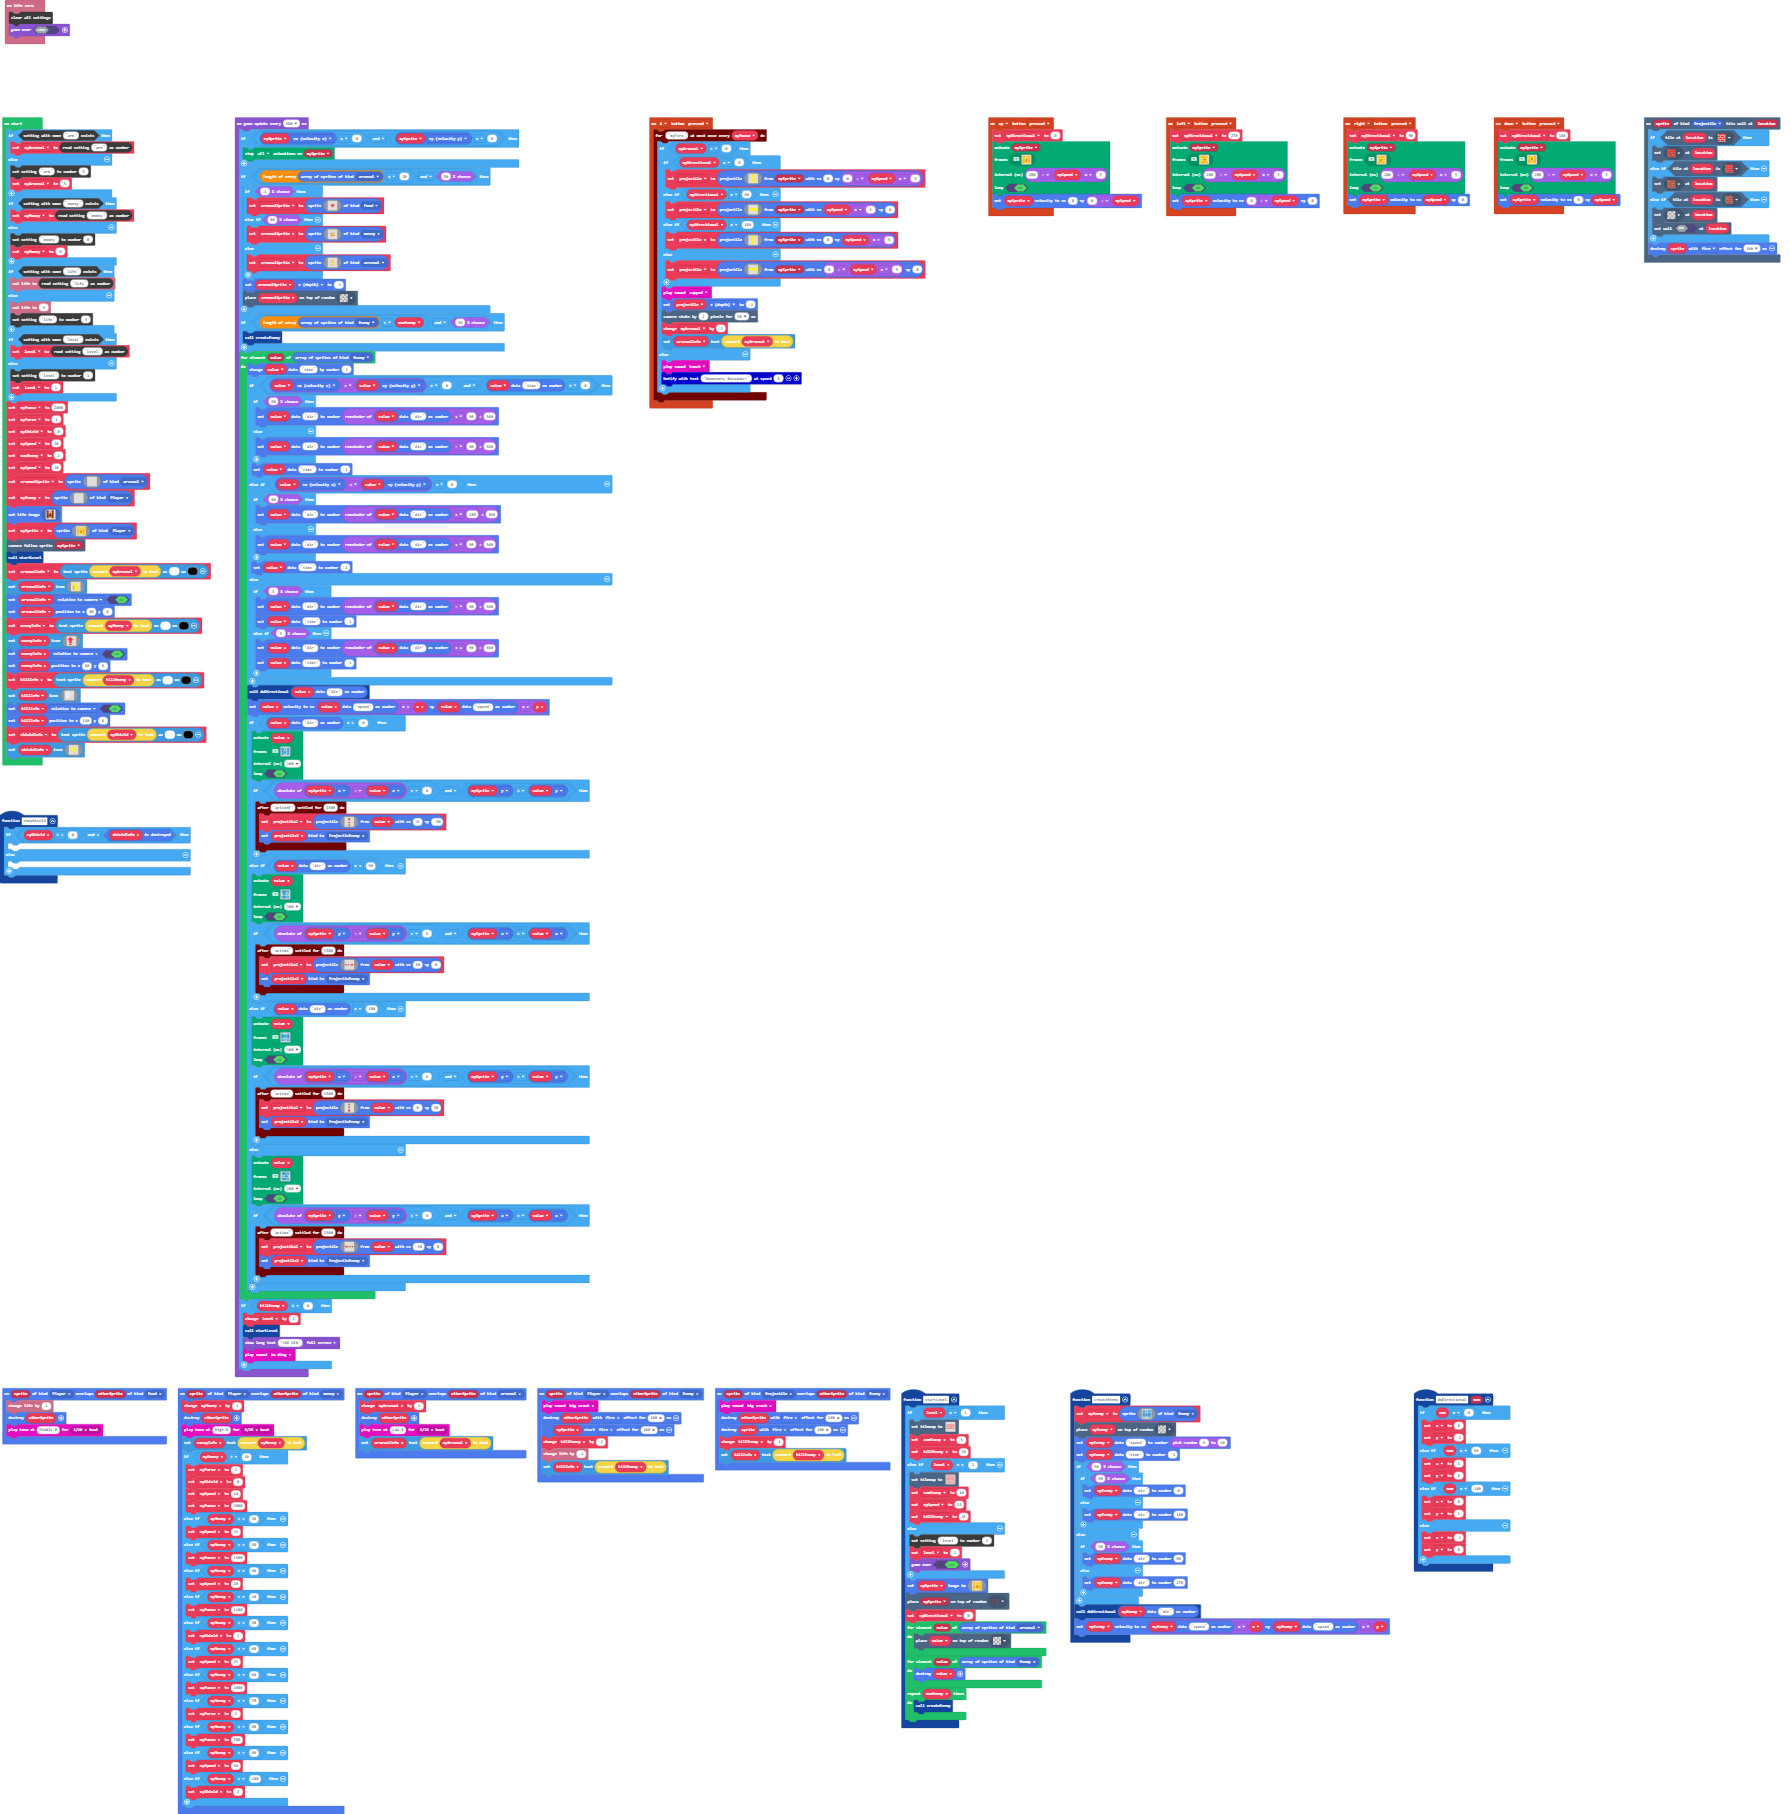
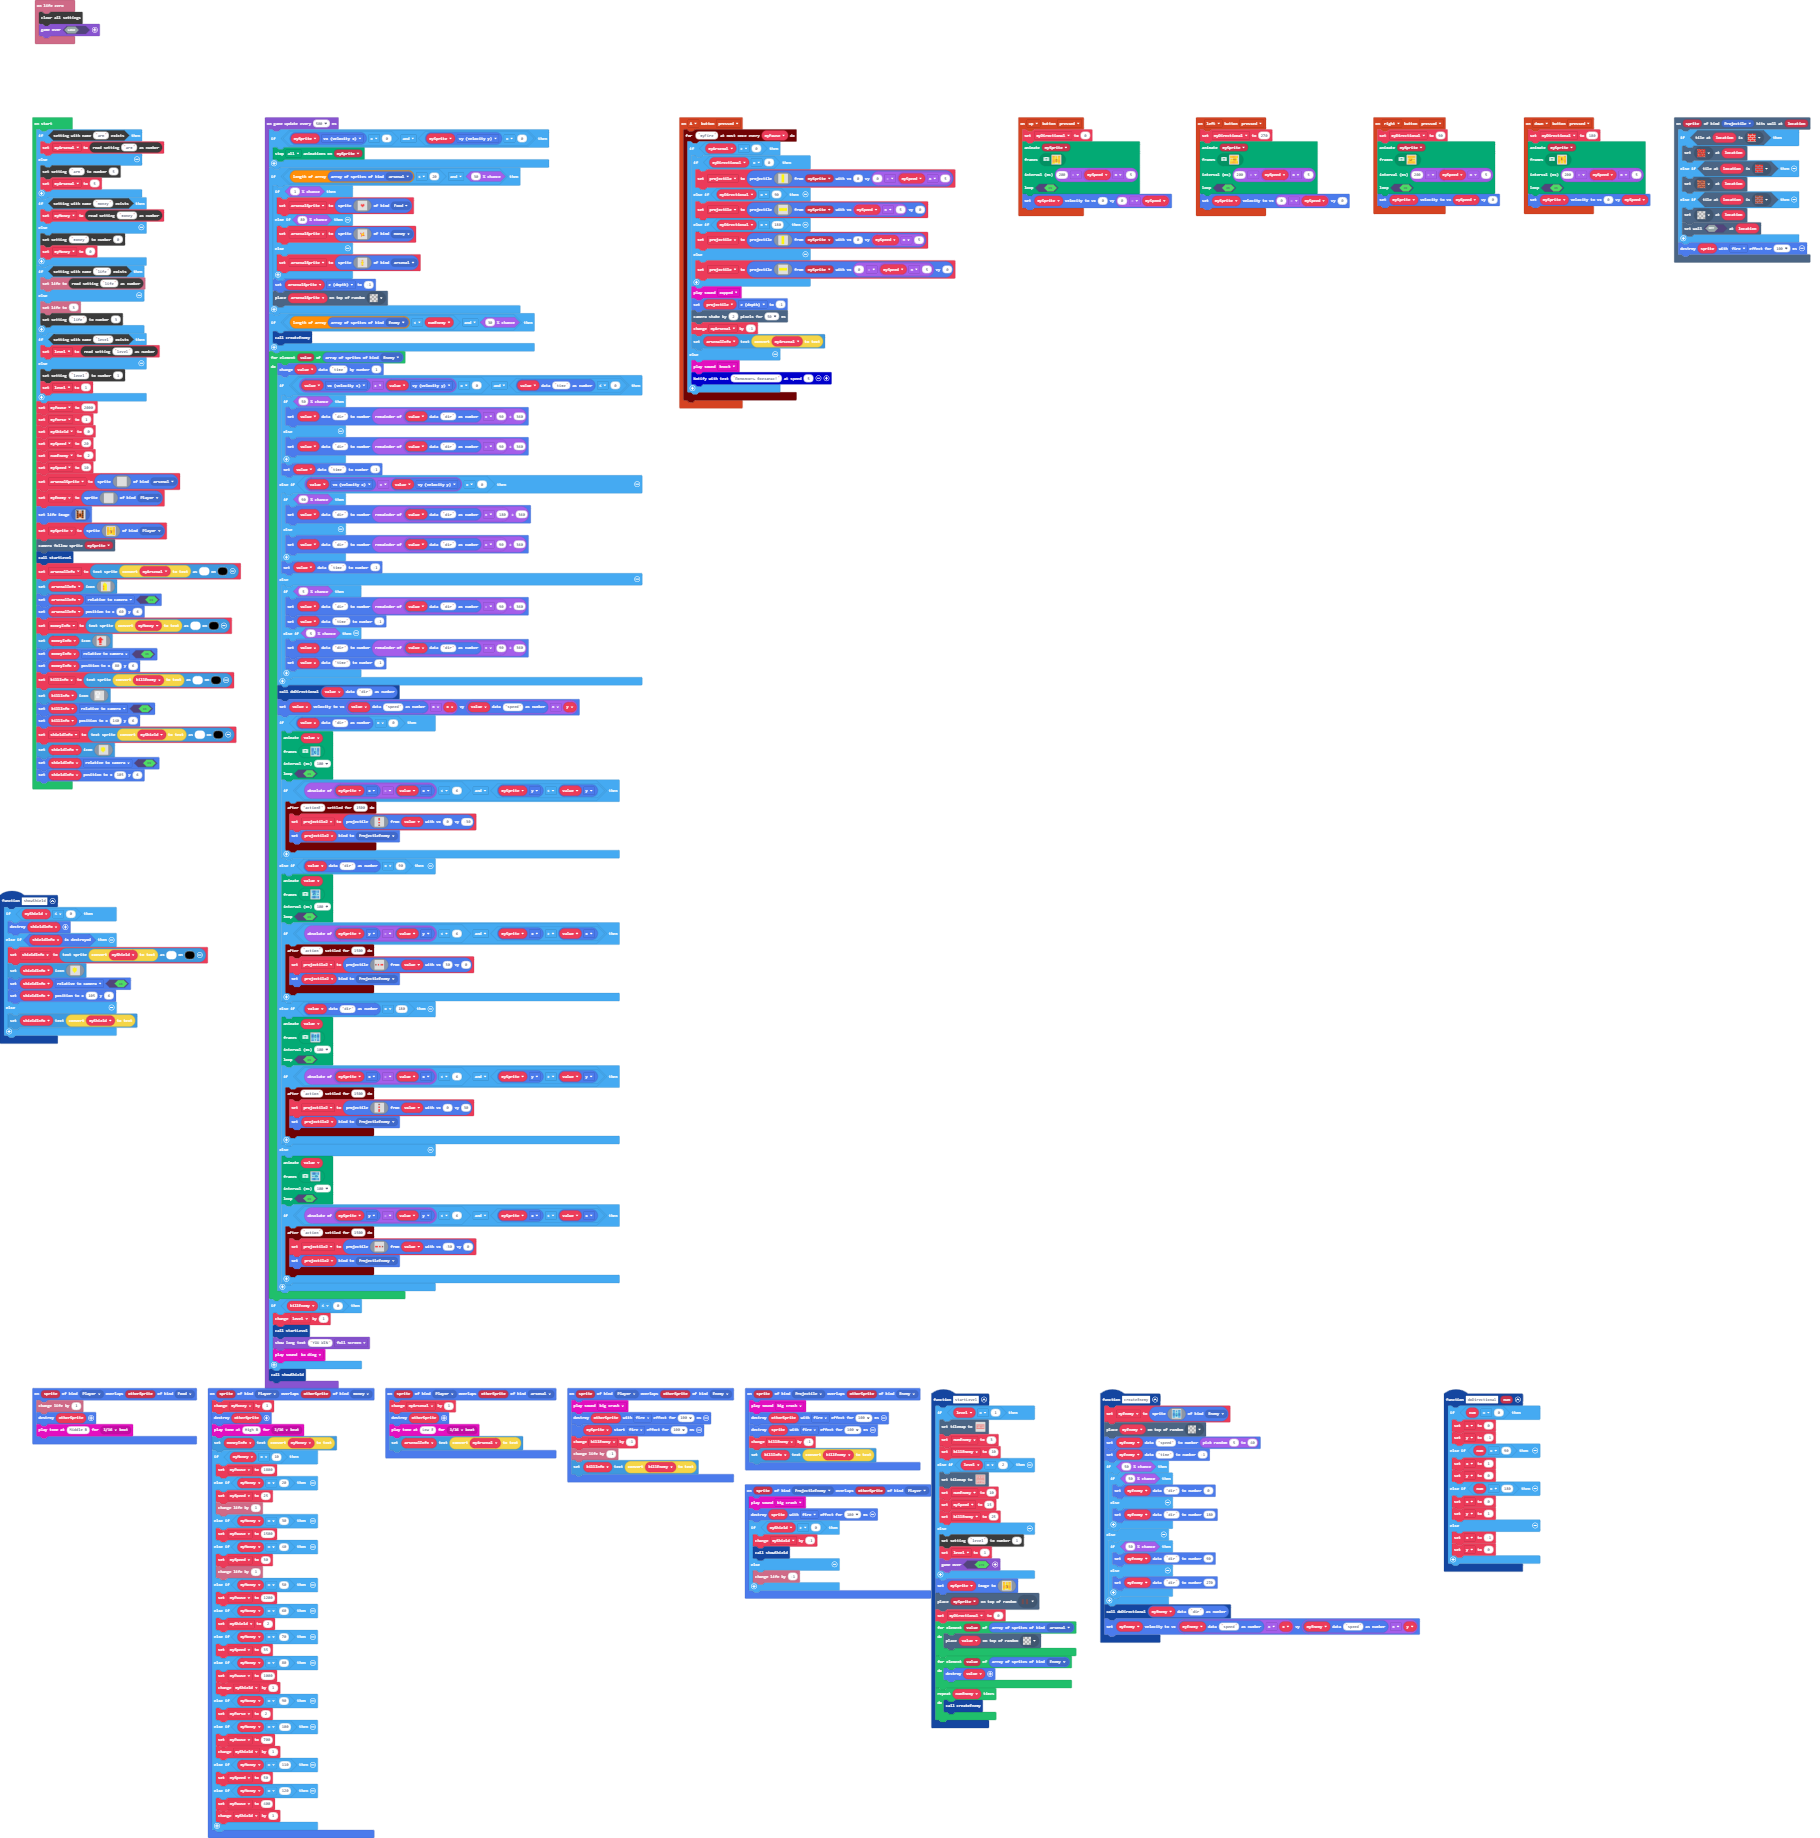
Update main.blocks, main.ts

Changed region(s): [[0.0, 0.0617, 0.8603, 1.0], [0.5531, 0.0617, 1.0, 0.1544], [0.0, 0.0, 0.0615, 0.0309]]

diff --git a/main.ts b/main.ts
@@ -47,33 +47,35 @@ sprites.onOverlap(SpriteKind.Player, SpriteKind.money, function (sprite, otherSp
     otherSprite.destroy()
     music.playTone(988, music.beat(BeatFraction.Sixteenth))
     moneyInfo.setText(convertToText(myMoney))
-    if (myMoney > 10) {
-        myForse = 1
-        myShield = 0
-        mySpeed = 10
-        myPause = 2000
-    } else if (myMoney > 20) {
-        mySpeed = 15
-    } else if (myMoney > 30) {
-        myPause = 1500
-    } else if (myMoney > 30) {
-        mySpeed = 20
-    } else if (myMoney > 40) {
-        myPause = 1200
-    } else if (myMoney > 50) {
-        myShield = 1
-    } else if (myMoney > 60) {
+    if (myMoney == 10) {
+        myPause = 1800
+    } else if (myMoney == 20) {
         mySpeed = 25
-    } else if (myMoney > 60) {
-        myPause = 1000
-    } else if (myMoney > 70) {
-        myForse = 2
-    } else if (myMoney > 80) {
-        myPause = 700
-    } else if (myMoney > 90) {
+        info.changeLifeBy(1)
+    } else if (myMoney == 30) {
+        myPause = 1500
+    } else if (myMoney == 40) {
         mySpeed = 30
-    } else if (myMoney > 100) {
+        info.changeLifeBy(1)
+    } else if (myMoney == 50) {
+        myPause = 1200
+    } else if (myMoney == 60) {
         myShield = 2
+    } else if (myMoney == 70) {
+        mySpeed = 35
+    } else if (myMoney == 80) {
+        myPause = 1000
+        myShield += 1
+    } else if (myMoney == 90) {
+        myForse = 2
+    } else if (myMoney == 100) {
+        myPause = 700
+        myShield += 1
+    } else if (myMoney == 110) {
+        mySpeed = 50
+    } else if (myMoney == 120) {
+        myPause = 400
+        myShield += 1
     }
 })
 controller.A.onEvent(ControllerButtonEvent.Pressed, function () {
@@ -288,12 +290,38 @@ scene.onHitWall(SpriteKind.Projectile, function (sprite, location) {
     sprite.destroy(effects.fire, 100)
 })
 function showShield () {
-    if (myShield > 0 && spriteutils.isDestroyed(shieldInfo)) {
-    	
+    if (myShield <= 0) {
+        shieldInfo.destroy()
+    } else if (spriteutils.isDestroyed(shieldInfo)) {
+        shieldInfo = textsprite.create(convertToText(myShield), 15, 1)
+        shieldInfo.setIcon(img`
+            . . . . . . . . 
+            . . . 5 . . . . 
+            . 5 5 5 5 5 . . 
+            . 5 5 5 5 5 . . 
+            . 5 5 5 5 5 . . 
+            . 5 5 5 5 5 . . 
+            . . 5 5 5 . . . 
+            . . . 5 . . . . 
+            . . . . . . . . 
+            . . . . . . . . 
+            `)
+        shieldInfo.setFlag(SpriteFlag.RelativeToCamera, true)
+        shieldInfo.setPosition(105, 6)
     } else {
-    	
+        shieldInfo.setText(convertToText(myShield))
     }
 }
+sprites.onOverlap(SpriteKind.ProjectleEnemy, SpriteKind.Player, function (sprite, otherSprite) {
+    music.bigCrash.play()
+    sprite.destroy(effects.fire, 100)
+    if (myShield > 0) {
+        myShield += -1
+        showShield()
+    } else {
+        info.changeLifeBy(-1)
+    }
+})
 function startLevel () {
     if (level == 1) {
         tiles.setTilemap(tilemap`level0`)
@@ -484,6 +512,8 @@ shieldInfo.setIcon(img`
     . . . . . . . . 
     . . . . . . . . 
     `)
+shieldInfo.setFlag(SpriteFlag.RelativeToCamera, true)
+shieldInfo.setPosition(105, 6)
 game.onUpdateInterval(500, function () {
     if (mySprite.vx == 0 && mySprite.vy == 0) {
         animation.stopAnimation(animation.AnimationTypes.All, mySprite)
@@ -774,4 +804,5 @@ game.onUpdateInterval(500, function () {
         game.showLongText("YOU WIN", DialogLayout.Full)
         music.baDing.play()
     }
+    showShield()
 })
